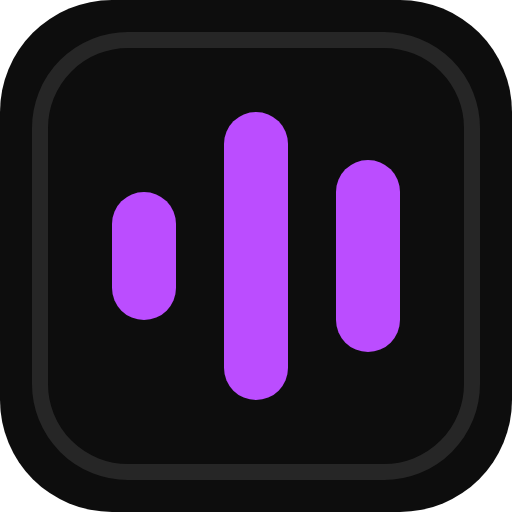
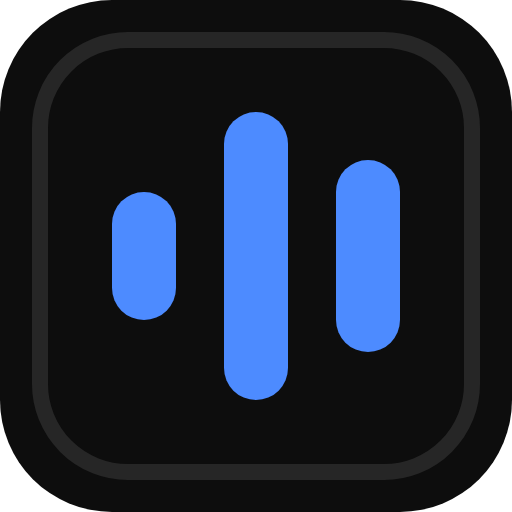
feat: troca o acento roxo pelo azul da camiseta da foto
O matiz (219) foi amostrado do tecido da foto da secao Sobre: 107 mil pixels
da regiao da camiseta, mediana #072C6F. A cor crua nao serve como acento —
da 1.48:1 sobre o carvao e sumiria — entao os tokens sao o mesmo matiz,
clareados ate passarem nos contrastes.

Tokens (os numeros batem quase exatamente com os do roxo que sairam):
- --color-accent      #9D00FF -> #0059FF   (3.59 -> 3.58 sobre o bg)
- --color-accent-text #BB4DFF -> #4D8BFF   (5.20 -> 5.97 sobre o bg)
- --color-accent-2    #8A2BE2 -> #2E6DE0
- --accent-rgb / --accent-2-rgb acompanham; todos os glows derivam deles

A troca tocou 5 linhas de CSS, o favicon e o README — retorno de ter
centralizado os tokens la atras. Os PNGs 180/192/512 foram regerados a partir
do SVG novo (conferido: rgb(77,139,255) no render).

Stats do Sobre:
- "Bacharel em CC" -> "Ciência da Computação", por extenso
- "6 projetos publicados" -> "35 repositórios públicos", que e o numero real
  do perfil (30 na primeira pagina + 5 na segunda; o contador diz 35). Nao
  usei "+40": o numero precisa ser conferivel. Os 35 incluem trabalho de
  disciplina, e isso esta anotado no codigo — o numero diz volume, nao
  curadoria; a curadoria esta no Setlist.

Verificado na pagina renderizada: 0 falhas de contraste AA, 0 texto abaixo de
10px, 0 overflow de 320 a 1440px, botao primario em rgb(0,89,255) com texto
branco (5.42:1), stats com alturas iguais em todas as larguras.

Changed region(s): [[0.4375, 0.2188, 0.5625, 0.7812], [0.6562, 0.3125, 0.7812, 0.6875], [0.2188, 0.375, 0.3438, 0.625]]

diff --git a/src/index.css b/src/index.css
@@ -17,12 +17,14 @@
   --color-ink-muted: #a3a3a3;
   /* 5.04:1 no pior fundo (--panel-2). O #787878 do prototipo dava 3.94:1. */
   --color-ink-faint: #8a8a8a;
-  /* Acento para PREENCHIMENTO, glow, borda e LED — 3.4:1+, suficiente para
-     componente nao-textual. NAO usar como cor de texto. */
-  --color-accent: #9d00ff;
-  /* Acento para TEXTO — 4.66:1 no pior fundo. Mesmo matiz, so mais claro. */
-  --color-accent-text: #bb4dff;
-  --color-accent-2: #8a2be2;
+  /* Acento para PREENCHIMENTO, glow, borda e LED — 3.2:1+, suficiente para
+     componente nao-textual. NAO usar como cor de texto.
+     Matiz 219, amostrado da camiseta da foto da secao Sobre (#072C6F, que
+     sozinho da 1.48:1 e sumiria no carvao — mesma cor, mais clara). */
+  --color-accent: #0059ff;
+  /* Acento para TEXTO — 5.35:1 no pior fundo. Mesmo matiz, so mais claro. */
+  --color-accent-text: #4d8bff;
+  --color-accent-2: #2e6de0;
   --color-knob: #2a2a2a;
   --color-knob-line: #3a3a3a;
 
@@ -77,8 +79,8 @@
 /* Trocar a cor de acento = trocar apenas as duas variaveis abaixo.     */
 /* ------------------------------------------------------------------ */
 :root {
-  --accent-rgb: 157 0 255;
-  --accent-2-rgb: 138 43 226;
+  --accent-rgb: 0 89 255;
+  --accent-2-rgb: 46 109 224;
 }
 
 @utility glow-cta {

diff --git a/src/data/site.ts b/src/data/site.ts
@@ -54,10 +54,14 @@ export const navLinks = [
   { label: 'Contato', href: '#contato' },
 ] as const
 
-/** Números verificáveis no currículo — nada de métrica inventada. */
+/**
+ * Números verificáveis — currículo e perfil público do GitHub, conferidos em
+ * 21/09/2026. Os 35 repositórios incluem trabalhos de disciplina, então o
+ * número diz volume, não curadoria; os projetos escolhidos estão no Setlist.
+ */
 export const aboutStats: readonly AboutStat[] = [
-  { value: '2026', label: 'Bacharel em CC · UNESP' },
-  { value: '6', label: 'Projetos publicados' },
+  { value: '2026', label: 'Ciência da Computação' },
+  { value: '35', label: 'Repositórios públicos' },
   { value: 'B2', label: 'Inglês · Linguaskill' },
 ]
 

diff --git a/README.md b/README.md
@@ -6,14 +6,14 @@ processamento, capas de vinil nos cards de projeto).
 
 ## Stack
 
-| Camada | Ferramenta |
-|---|---|
-| Build | Vite 8 |
-| UI | React 19 + TypeScript 6 (strict) |
-| Estilo | Tailwind CSS 4 (`@tailwindcss/vite`, tokens em `@theme`) |
-| Animação | CSS/Tailwind + `motion` via `LazyMotion` (bundle enxuto); `gsap` disponível |
-| Ícones | `lucide-react` |
-| Qualidade | oxlint + Prettier |
+| Camada    | Ferramenta                                                                  |
+| --------- | --------------------------------------------------------------------------- |
+| Build     | Vite 8                                                                      |
+| UI        | React 19 + TypeScript 6 (strict)                                            |
+| Estilo    | Tailwind CSS 4 (`@tailwindcss/vite`, tokens em `@theme`)                    |
+| Animação  | CSS/Tailwind + `motion` via `LazyMotion` (bundle enxuto); `gsap` disponível |
+| Ícones    | `lucide-react`                                                              |
+| Qualidade | oxlint + Prettier                                                           |
 
 ## Scripts
 
@@ -46,14 +46,14 @@ Todo o conteúdo vive em `src/data/` — nenhum texto fica hardcoded no JSX.
 
 ## Cores: `accent` vs `accent-text`
 
-O roxo neon do design (`#9D00FF`) atinge **3.59:1** sobre o fundo carvão — passa
+O azul de acento (`#0059FF`) atinge **3.58:1** sobre o fundo carvão — passa
 como componente de UI (mín. 3:1), mas **reprova como texto** (mín. 4.5:1). Por isso
 o acento é dois tokens:
 
-| Token | Valor | Usar em |
-|---|---|---|
-| `--color-accent` | `#9D00FF` | preenchimento, glow, borda, LED, fundo de botão |
-| `--color-accent-text` | `#BB4DFF` | qualquer **texto** em acento (4.66:1 no pior fundo) |
+| Token                 | Valor     | Usar em                                             |
+| --------------------- | --------- | --------------------------------------------------- |
+| `--color-accent`      | `#0059FF` | preenchimento, glow, borda, LED, fundo de botão     |
+| `--color-accent-text` | `#4D8BFF` | qualquer **texto** em acento (5.35:1 no pior fundo) |
 
 Outras regras do mesmo tipo:
 
@@ -61,6 +61,9 @@ Outras regras do mesmo tipo:
   afordância do controle — os campos do formulário — use `--color-line-strong`.
 - Texto sobre o botão de acento é **branco** (5.42:1). O `#0D0D0D` do protótipo
   dava 3.59:1.
+- O matiz (219°) foi amostrado da camiseta da foto da seção Sobre. A cor crua
+  do tecido (`#072C6F`) dá 1.48:1 e sumiria no fundo — o token é o mesmo matiz,
+  clareado até passar.
 - Nada de texto abaixo de 10px.
 
 Auditado com contraste computado sobre o fundo efetivo de cada elemento, em
@@ -75,7 +78,7 @@ uma requisição só, sem SDK no bundle. O template precisa aceitar `{{nome}}`,
 Sem as variáveis preenchidas o formulário continua validando, mas avisa que o
 envio está desligado em vez de falhar em silêncio.
 
-**Antes de publicar:** configure a *allowlist de domínios* no painel do EmailJS.
+**Antes de publicar:** configure a _allowlist de domínios_ no painel do EmailJS.
 A chave pública vai no JavaScript que o visitante baixa — não há como escondê-la,
 e a allowlist é o que impede terceiros de gastarem sua cota.
 
